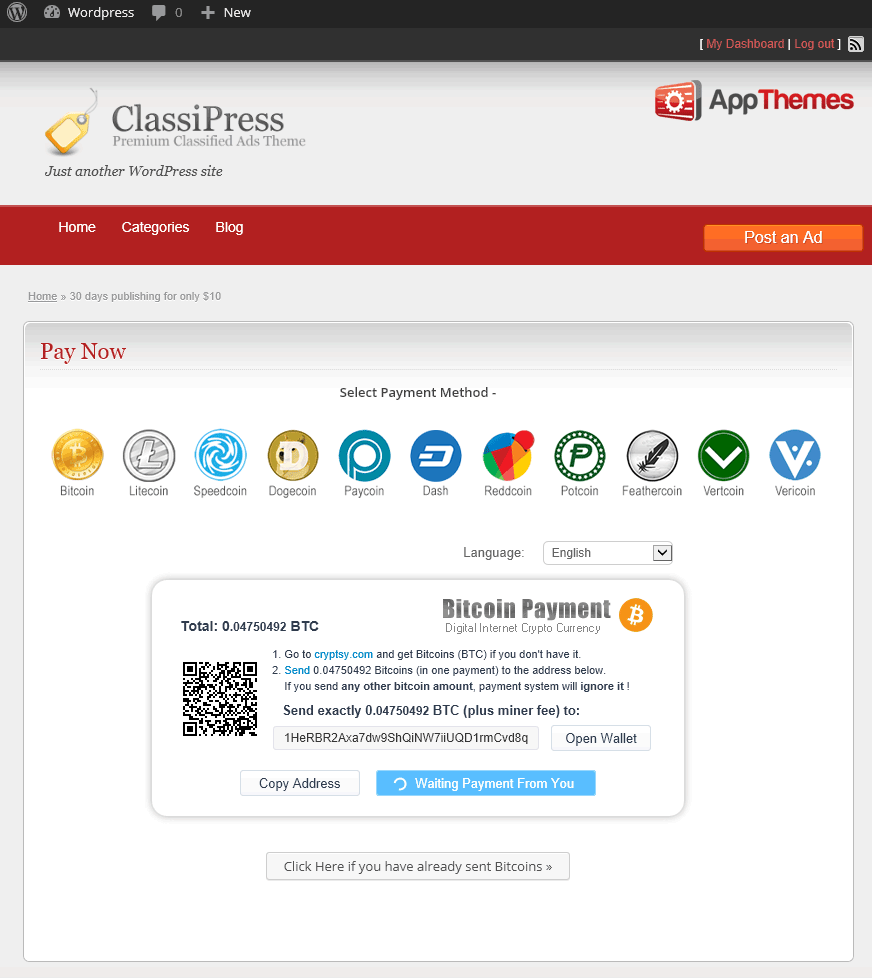
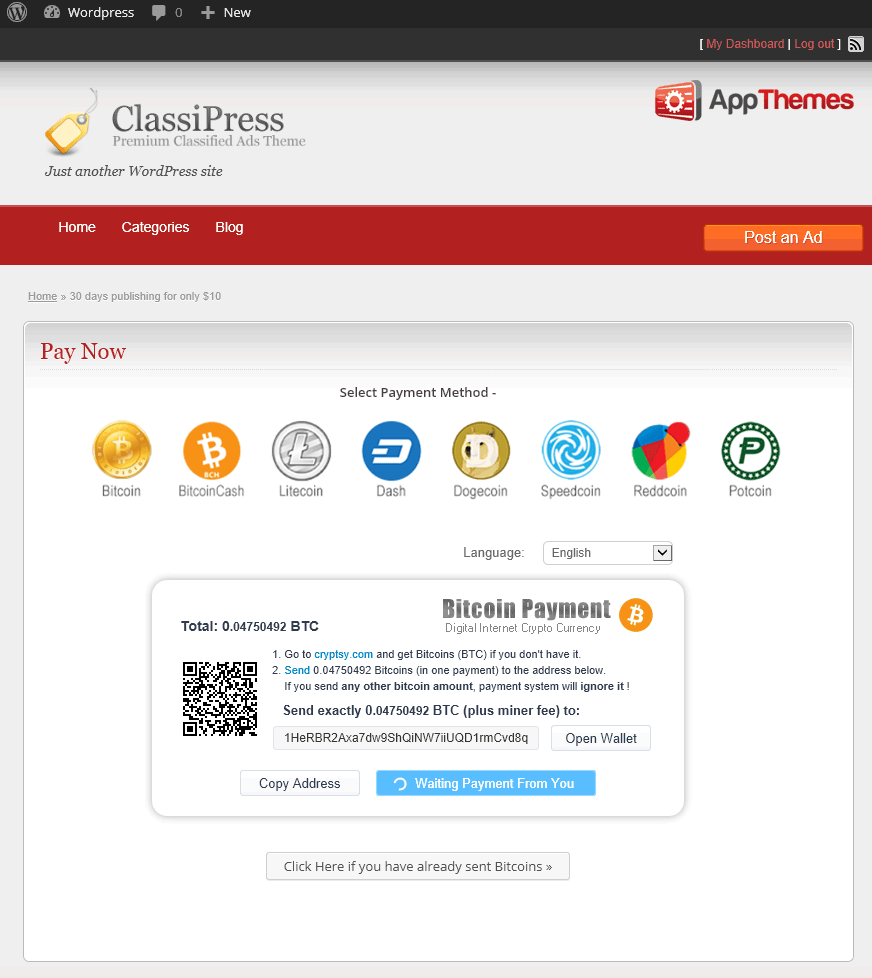
Version 1.1.3
Added Bitcoin Cash (BCH / BCC)

Changed region(s): [[0.3096, 0.4294, 0.9599, 0.5215], [0.0619, 0.4294, 0.2787, 0.5215]]

diff --git a/gourl-appthemes.php b/gourl-appthemes.php
@@ -2,8 +2,8 @@
 /*
 Plugin Name: 		GoUrl AppThemes - Bitcoin Payments for Classipress, Vantage, JobRoller, etc
 Plugin URI: 		https://gourl.io/bitcoin-appthemes-classipress-jobroller-vantage-etc.html
-Description: 		Provides a <a href="https://gourl.io">GoUrl.io</a> Bitcoin/Altcoin Payment Gateway for all <a href="http://www.appthemes.com/themes/">AppThemes.com Premium Themes</a> - Classipress, Vantage, JobRoller, Clipper, Taskerr, HireBee, Ideas, Quality Control, etc. Support bitcoin/altcoins Escrow Payments; product prices in USD/EUR/etc and in cryptocoins directly; sends the amount straight to your business Bitcoin/Altcoin wallet. Convert your USD/EUR/etc prices to cryptocoins using Google/Bitstamp/Cryptsy Live Exchange Rates. Accept Bitcoin, Litecoin, Paycoin, Dogecoin, Dash, Speedcoin, Reddcoin, Potcoin, Feathercoin, Vertcoin, Vericoin, Peercoin, MonetaryUnit payments online.
-Version: 			1.1.2
+Description: 		Provides a <a href="https://gourl.io">GoUrl.io</a> Bitcoin/Altcoin Payment Gateway for all <a href="http://www.appthemes.com/themes/">AppThemes.com Premium Themes</a> - Classipress, Vantage, JobRoller, Clipper, Taskerr, HireBee, Ideas, Quality Control, etc. Support bitcoin/altcoins Escrow Payments; product prices in USD/EUR/etc and in cryptocoins directly; sends the amount straight to your business Bitcoin/Altcoin wallet. Convert your USD/EUR/etc prices to cryptocoins using Google/Bitstamp/Poloniex Live Exchange Rates. Accept Bitcoin, BitcoinCash, Litecoin, Dash, Dogecoin, Speedcoin, Reddcoin, Potcoin, Feathercoin, Vertcoin, Peercoin, MonetaryUnit payments online.
+Version: 			1.1.3
 Author: 			GoUrl.io
 Author URI: 		https://gourl.io
 License: 			GPLv2
@@ -117,7 +117,7 @@ if (!function_exists('gourl_app_gateway_load') && !function_exists('gourl_app_lo
 	
 		private $payments 			= array();
 		private $languages 			= array();
-		private $coin_names			= array('BTC' => 'bitcoin', 'LTC' => 'litecoin', 'XPY' => 'paycoin', 'DOGE' => 'dogecoin', 'DASH' => 'dash', 'SPD' => 'speedcoin', 'RDD' => 'reddcoin', 'POT' => 'potcoin', 'FTC' => 'feathercoin', 'VTC' => 'vertcoin', 'VRC' => 'vericoin', 'PPC' => 'peercoin', 'MUE' => 'monetaryunit');
+		private $coin_names			= array('BTC' => 'bitcoin', 'BCH' => 'bitcoincash', 'LTC' => 'litecoin', 'DASH' => 'dash', 'DOGE' => 'dogecoin', 'SPD' => 'speedcoin', 'RDD' => 'reddcoin', 'POT' => 'potcoin', 'FTC' => 'feathercoin', 'VTC' => 'vertcoin', 'PPC' => 'peercoin', 'MUE' => 'monetaryunit');
 		private $mainplugin_url		= "";
 	
 		
@@ -902,6 +902,6 @@ function appthemes_init_gourl_escrow()
 
 
 
-	} // end gourl_app_gateway_load()         
+	} // end gourl_app_gateway_load() 
 
 } 

diff --git a/readme.md b/readme.md
@@ -2,20 +2,20 @@
 GoUrl AppThemes - Bitcoin Payments for Classipress, Vantage, JobRoller, etc
 -----------------------------------------------------------
 
-Version 1.1.2
+Version 1.1.3
 
 
 **Provides a Bitcoin/Altcoin Payment Gateway for all Appthemes Premium Themes - Classipress, Vantage, JobRoller, Clipper, Taskerr, HireBee, Ideas, Quality Control, etc.**
 
-Accept Bitcoin, Litecoin, Paycoin, Dogecoin, Dash, Speedcoin, Reddcoin, Potcoin, Feathercoin, Vertcoin, Vericoin, Peercoin, MonetaryUnit on Website Online
+Accept Bitcoin, BitcoinCash, Litecoin, Dash, Dogecoin, Speedcoin, Reddcoin, Potcoin, Feathercoin, Vertcoin, Peercoin, MonetaryUnit on Website Online
 
 * Author URI: [https://gourl.io](https://gourl.io)
 * Plugin Page: [https://gourl.io/bitcoin-appthemes-classipress-jobroller-vantage-etc.html](https://gourl.io/bitcoin-appthemes-classipress-jobroller-vantage-etc.html)
 * Wordpress Page: [https://wordpress.org/plugins/gourl-appthemes-bitcoin-payments-classipress-vantage-jobroller](https://wordpress.org/plugins/gourl-appthemes-bitcoin-payments-classipress-vantage-jobroller/)
 * Screenshots: [https://gourl.io/bitcoin-appthemes-classipress-jobroller-vantage-etc.html#screenshot](https://gourl.io/bitcoin-appthemes-classipress-jobroller-vantage-etc.html#screenshot)
 * Requires at least: Wordpress 3.5 and Any Appthemes Premium Theme
-* Tested up to: Wordpress 4.3 and Appthemes
-* Stable Tag: 1.1.2
+* Tested up to: Wordpress 4.9 and Appthemes
+* Stable Tag: 1.1.3
 * License: GNU Version 2 or Any Later Version
 
 
@@ -27,7 +27,7 @@ Accept Bitcoin, Litecoin, Paycoin, Dogecoin, Dash, Speedcoin, Reddcoin, Potcoin,
 * No Monthly Fee, Transaction Fee from 0%
 * Bitcoin/altcoin Escrow payments support
 * Product Prices in Bitcoin/Altcoins directly and sends the amount straight to your business wallet.
-* Product Prices in USD/EUR/GBP/etc. Google/Bitstamp/Cryptsy Live Exchange Rates
+* Product Prices in USD/EUR/GBP/etc. Google/Bitstamp/Poloniex Live Exchange Rates
 * Direct Integration on your website, no external payment pages opens (as other payment gateways offer)
 * You will see the bitcoin/altcoin payment statistics in one common table on your website. 
 * No Chargebacks, Global, Secure. All in automatic mode.
@@ -69,5 +69,5 @@ Plugin Options
 
   
 # ![Appthemes-Plugin-Options](https://gourl.io/images/appthemes/screenshot-1.png)       
- 
+      
   
